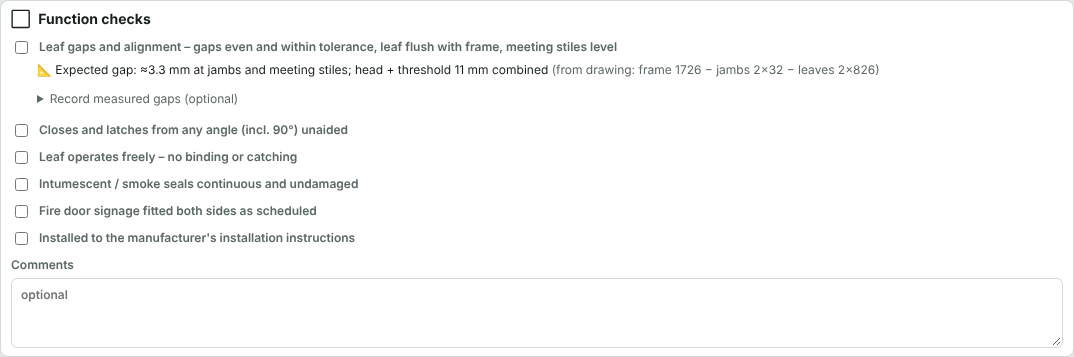
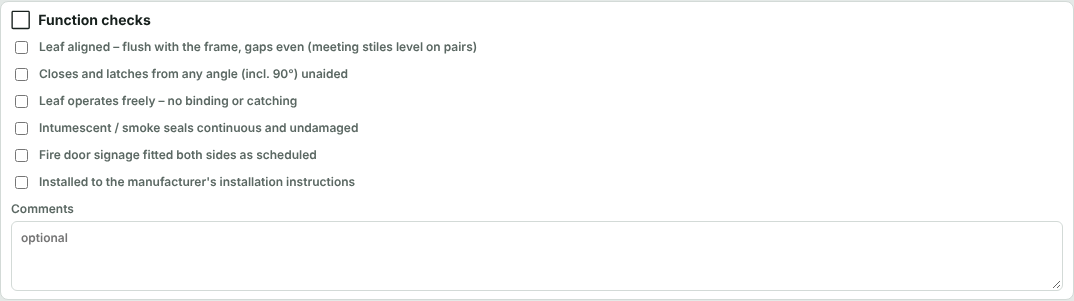
Measured leaf gaps (both leaves on pairs), alignment check, architraves/finished photos after photos; architrave N/A only for metal doors
Claude-Session: https://claude.ai/code/session_017beXtbuUdnLAwMxUsRkPYu

diff --git a/public/index.html b/public/index.html
@@ -804,7 +804,7 @@ function rpPanel(ref,d){if(!isTimberSet(d))return"";const sl=rpSlots(d);const st
 function fdRows(){const D=S.data.doors;return Object.keys(D).filter(r=>supOk(D[r])&&isFR(D[r])&&!D[r].unscheduled).sort((a,b)=>keyNK(a).localeCompare(keyNK(b))).map(r=>{const d=D[r],st=S.doors.get(r)||{},sp=d.sup||{};const s=stageOf(r);const ds=(d.doorsets||[])[0];
   const fs=compStat(st,"fseal");const docs=fireDocs(r);const rp=isTimberSet(d)?rpStat(r,d):null;const od=[...S.defects.values()].filter(x=>x.ref===r&&x.status!=="Closed").length;const it=instAt(r);
   const hw=[...(d.iron||[]),...(sp.hardware||[])].join(" | ");
-  const ce=(st.cert)||{},ins=(st.inst)||{},fp=(st.fsp)||{};const rs=fdRecStat(r,d),fr_=(st.fdr)||{};return {r,d,s,cells:[r,doorLoc(r),d.supplier||"",d.fire||"",sp.fire||"",ds?`${ds.no} rev ${ds.rev}`:"",ce.scheme||"",ce.no||"",sp.leaf||"",/S$/i.test(normFire(d.fire))?"Yes (smoke)":"",(sp.vision&&!/none/i.test(sp.vision))?sp.vision:(d.vision||""),/closer/i.test(hw)||sp.closer?"Yes":(d.closer||""),STAGES[s].k,it?new Date(it).toLocaleDateString("en-GB"):"",ins.company?`${ins.company} – ${ins.name}${ins.cert?" ("+ins.cert+")":""}`:installer(r)+" (not recorded)",fs?({cleared:"Done",later:"To complete",na:"N/A"}[fs.s]||fs.s):((st.fseal||{}).all?"Done":""),(fp.product||fp.gapW!=null&&fp.gapW!=="")?[fp.gapW!=null&&fp.gapW!==""?"gap "+fp.gapW+(fp.gapN!=null&&fp.gapN!==""?"–"+fp.gapN:"")+" mm":"",fp.product,fp.maker,fp.depth!=null&&fp.depth!==""?"depth "+fp.depth+" mm":"",fp.gap?"gap "+fp.gap:"",fp.backing?"backing "+fp.backing:"",fp.note].filter(Boolean).join(", "):"",docs.length?docs.map(x=>x.kind).join("; "):"",rp?`${rp.got}/${rp.req}`:"N/A",st.handover?"Handed over "+new Date(st.handover.at).toLocaleDateString("en-GB"):"",od||"",fr_.test||"",[fr_.gH,fr_.gJ,fr_.gL,fr_.gM,fr_.gT].some(x=>x!==""&&x!=null)?`H ${fr_.gH??"–"} / HJ ${fr_.gJ??"–"} / LJ ${fr_.gL??"–"}${fr_.gM!=null&&fr_.gM!==""?" / M "+fr_.gM:""} / T ${fr_.gT??"–"}`:"",[fr_.vId?"identity":"",fr_.vBuild?"build":"",fr_.vHw?"ironmongery":""].filter(Boolean).join(", "),FDCHK.every(([k])=>fr_["c_"+k])?"All passed":FDCHK.some(([k])=>fr_["c_"+k])?"Part":"",fr_.decl?"Yes":"",fr_.inspBy?`${fr_.inspBy}${fr_.inspDate?" "+new Date(fr_.inspDate).toLocaleDateString("en-GB"):""}`:"",`${rs.got}/${rs.n}`]}})}
+  const ce=(st.cert)||{},ins=(st.inst)||{},fp=(st.fsp)||{};const rs=fdRecStat(r,d),fr_=(st.fdr)||{};return {r,d,s,cells:[r,doorLoc(r),d.supplier||"",d.fire||"",sp.fire||"",ds?`${ds.no} rev ${ds.rev}`:"",ce.scheme||"",ce.no||"",sp.leaf||"",/S$/i.test(normFire(d.fire))?"Yes (smoke)":"",(sp.vision&&!/none/i.test(sp.vision))?sp.vision:(d.vision||""),/closer/i.test(hw)||sp.closer?"Yes":(d.closer||""),STAGES[s].k,it?new Date(it).toLocaleDateString("en-GB"):"",ins.company?`${ins.company} – ${ins.name}${ins.cert?" ("+ins.cert+")":""}`:installer(r)+" (not recorded)",fs?({cleared:"Done",later:"To complete",na:"N/A"}[fs.s]||fs.s):((st.fseal||{}).all?"Done":""),(fp.product||fp.gapW!=null&&fp.gapW!=="")?[fp.gapW!=null&&fp.gapW!==""?"gap "+fp.gapW+(fp.gapN!=null&&fp.gapN!==""?"–"+fp.gapN:"")+" mm":"",fp.product,fp.maker,fp.depth!=null&&fp.depth!==""?"depth "+fp.depth+" mm":"",fp.gap?"gap "+fp.gap:"",fp.backing?"backing "+fp.backing:"",fp.note].filter(Boolean).join(", "):"",docs.length?docs.map(x=>x.kind).join("; "):"",rp?`${rp.got}/${rp.req}`:"N/A",st.handover?"Handed over "+new Date(st.handover.at).toLocaleDateString("en-GB"):"",od||"",fr_.test||"",!gapFields(d).some(g=>g.f.some(([k])=>fr_[k]!==""&&fr_[k]!=null))?"":gapFields(d).map(g=>(g.t?g.t.replace(/ \(.*\)/,"")+": ":"")+g.f.map(([k,l])=>l.split(" ").map(w=>w[0]).join("")+" "+(fr_[k]??"–")).join(" / ")).join("; "),[fr_.vId?"identity":"",fr_.vBuild?"build":"",fr_.vHw?"ironmongery":""].filter(Boolean).join(", "),FDCHK.every(([k])=>fr_["c_"+k])?"All passed":FDCHK.some(([k])=>fr_["c_"+k])?"Part":"",fr_.decl?"Yes":"",fr_.inspBy?`${fr_.inspBy}${fr_.inspDate?" "+new Date(fr_.inspDate).toLocaleDateString("en-GB"):""}`:"",`${rs.got}/${rs.n}`]}})}
 const FD_HDR=["Door ref","Location","Supplier","Fire rating (schedule)","Fire rating (supplier design)","Doorset drawing","Certification scheme","Certificate no.","Leaf size","Smoke seals","Vision panel / glass","Self-closer","Install stage","Installed","Installer","Fire stopping to frame","Frame sealing product","Fire documents uploaded","Install record photos","Handover","Open defects","Test evidence","Gaps (mm)","Verified on site","Function checks","Installer declaration","AFRY inspection","Record complete"];
 function renderFDReg(){const rows=fdRows();const by=k=>rows.filter(x=>normFire(x.d.fire).startsWith(k)).length;
   const inst=rows.filter(x=>x.s>=2),noDocs=inst.filter(x=>!x.cells[17]),noSeal=inst.filter(x=>x.cells[15]!=="Done"&&x.cells[15]!=="N/A");
@@ -824,7 +824,7 @@ function fdDesign(r,d){const sp=d.sup||{};const ds=(d.doorsets||[])[0];const hw=
   return {id:[["Fire rating (schedule)",d.fire||"–"],["Fire rating (supplier design)",sp.fire||"–"],["Manufacturer",d.supplier||"–"],["Doorset drawing",ds?`${ds.no} rev ${ds.rev}`:"–"],["Doorset type",sp.spec||d.desc||"–"]],
     build:[["Leaf",sp.leaf||(sp.clearW?`clear opening ${sp.clearW}${sp.clearH?" × "+sp.clearH:""} mm`:"–")],["Frame",sp.frameW?`${sp.frameW} × ${sp.frameH} mm`:(sp.soW?`structural opening ${sp.soW} × ${sp.soH} mm`:"–")],["Glazing",sp.vision&&!/^none$/i.test(sp.vision)?sp.vision:(d.vision&&!/^no/i.test(d.vision)?d.vision:"None")],["Smoke seals",/S$/.test(fr)?"Required (S rating)":"Not required"],["Intumescent seals","Per doorset certification"]],
     hw}}
-const FDCHK=[["gaps","Leaf gaps and alignment – gaps even and within tolerance, leaf flush with frame, meeting stiles level"],["closes","Closes and latches from any angle (incl. 90°) unaided"],["nobind","Leaf operates freely – no binding or catching"],["seals","Intumescent / smoke seals continuous and undamaged"],["sign","Fire door signage fitted both sides as scheduled"],["instr","Installed to the manufacturer's installation instructions"]];
+const FDCHK=[["align","Leaf aligned – flush with the frame, gaps even"+" (meeting stiles level on pairs)"],["closes","Closes and latches from any angle (incl. 90°) unaided"],["nobind","Leaf operates freely – no binding or catching"],["seals","Intumescent / smoke seals continuous and undamaged"],["sign","Fire door signage fitted both sides as scheduled"],["instr","Installed to the manufacturer's installation instructions"]];
 function fdRecord(r,d){const st=S.doors.get(r)||{},f=st.fdr||{},i=st.inst||{},c=st.cert||{},p=st.fsp||{};const D=fdDesign(r,d);const ro=canWrite?"":"disabled";const RS=fdRecStat(r,d);
   const dl=(k)=>`<datalist id="dl-${k.replace(".","_")}">${fdLib(k).map(v=>`<option value="${esc(v)}">`).join("")}</datalist>`;
   const tx=(k,lbl,val,ph,list)=>`<label>${lbl}<input type="text" data-fd="${k}" value="${esc(val||"")}" placeholder="${esc(ph||"")}" ${list?`list="dl-${k.replace(".","_")}"`:""} ${ro}></label>${list?dl(k):""}`;
@@ -860,10 +860,10 @@ function recStat(ref,d){const st=S.doors.get(ref)||{},f=st.fdr||{},i=st.inst||{}
   add("check","check","Doorset checked against the design",f.vId);
   if(fr)add("check","cert","Certification scheme & number",c.scheme&&c.no);
   const is=ironStatus(ref,d,st);const ax=archIdx(d);if(is.total>ax.length)add("iron","iron","Ironmongery checked",!is.missing.filter(x=>x.i!==d.prepIdx&&!ax.includes(x.i)).length&&!is.noPhoto.filter(x=>!ax.includes(x.i)).length);
-  const nz=v=>v!==""&&v!=null;if(fr){add("fire","fsgap","Frame-to-wall gap recorded",nz(p.gapW)||p.gap);add("fire","fsp","Fire-stopping material & depth",p.product&&(nz(p.depth)||p.gap));add("func","func","Function checks",FDCHK.every(([k])=>f["c_"+k]))}
-  if(ax.length)add("arch","arch","Architraves fitted (or N/A)",f.archNA||ax.every(i=>(st.iron||{})[i]));
-  if(UI.sec==="doors"&&d.ctype!=="Roller shutter")add("arch","fin","Finished photos – push & pull side",FINPH.every(([k])=>rpHas(ref,k).length));
+  const nz=v=>v!==""&&v!=null;if(fr){add("fire","fsgap","Frame-to-wall gap recorded",nz(p.gapW)||p.gap);add("fire","fsp","Fire-stopping material & depth",p.product&&(nz(p.depth)||p.gap));add("gaps","gaps","Leaf-to-frame gaps measured",gapFields(d).every(g=>g.f.every(([k])=>f[k]!==""&&f[k]!=null)));add("func","func","Function checks",FDCHK.every(([k])=>f["c_"+k]))}
   const sl=recSlots(d).filter(x=>!x.opt);if(sl.length){const got=sl.filter(x=>rpHas(ref,x.k).length).length;add("photos","photos",`Photos (${got}/${sl.length})`,got===sl.length)}
+  if(ax.length)add("arch","arch","Architraves fitted",ax.every(i=>(st.iron||{})[i]));
+  if(UI.sec==="doors"&&d.ctype!=="Roller shutter")add("arch","fin","Finished photos – push & pull side",FINPH.every(([k])=>rpHas(ref,k).length));
   if(d.conn)add("elec","elec","Access control interfaces",compStat(st,"elec"));
   if(hasCyl(d))add("keys","keys","Keys handed over",keyTot(ref)||f.noKeys);
   const got=it.filter(x=>x.ok).length;return {items:it,got,n:it.length,missing:it.filter(x=>!x.ok)}}
@@ -872,6 +872,8 @@ const FSMAT=["Intumescent acrylic sealant","Fire-rated silicone sealant","Minera
 const FSBACK=["Mineral wool","PE backing rod","Fire-rated backing rod","None – full-depth sealant"];
 function fsSel(k,lbl,val,base,ro){const opts=[...new Set([...base,...fdLib(k)])];const other=val&&!opts.includes(val);
   return `<label>${lbl}<select data-fsel="${k}" ${ro}><option value="">Choose…</option>${opts.map(o=>`<option ${o===val?"selected":""}>${esc(o)}</option>`).join("")}<option value="__o" ${other?"selected":""}>Other…</option></select><input type="text" data-fd="${k}" list="dl-${k.replace(".","_")}" value="${esc(val||"")}" placeholder="Type the material" ${other?"":"hidden"} ${ro} style="margin-top:4px"></label>`}
+const isDbl=d=>/double/i.test(d.desc||"")||/2:2/.test((d.prod||{}).handing||"")||/double/i.test((d.sup||{}).type||"");
+function gapFields(d){const L=isDbl(d)?[["","Leaf 1 (active)"],["2","Leaf 2 (inactive)"]]:[["",""]];return L.map(([sfx,t])=>({t,f:[["gH"+sfx,"Head"],["gJ"+sfx,"Hinge jamb"],["gL"+sfx,isDbl(d)?"Meeting stile":"Lock jamb"],["gT"+sfx,"Threshold"]]}))}
 function gapRef(d){const sp=d.sup||{},pr=d.prod,o={leaf:"",wall:""};const num=v=>v==null||v===""?NaN:+v;
   if(pr&&sp.frameW&&pr.size&&pr.frame){const t=+((pr.frame.match(/x\s*(\d+)\s*mm/)||[])[1]);const m=(pr.size.match(/(\d+)\s*mm/g)||[]).map(x=>parseInt(x));const n=/double/i.test(d.desc||"")||/2:2/.test(pr.handing||"")?2:1;
     if(t&&m.length>=2){const g=(num(sp.frameW)-2*t-n*m[0])/(n+1),hh=num(sp.frameH)-t-m[1];if(g>=1&&g<=6)o.leaf=`≈${Math.round(g*10)/10} mm at jambs${n>1?" and meeting stiles":""}; head + threshold ${hh} mm combined <span class="muted">(from drawing: frame ${sp.frameW} − jambs 2×${t} − ${n>1?"leaves 2×":"leaf "}${m[0]})</span>`}}
@@ -906,9 +908,10 @@ function installRecord(ref,d,st){if(UI.sec!=="doors")return"";const f=st.fdr||{}
      <div class="row">${tx("fsp.maker","Manufacturer / product name (optional)",p.maker,"e.g. as on the cartridge",1)}${tx("fsp.sides","Sealed",p.sides,"both sides / one side")}</div>
      <label>Comments<textarea data-fd="fsp.note" rows="2" style="box-sizing:border-box;width:100%" placeholder="e.g. head gap over 20 mm – packed with mineral wool first" ${ro}>${esc(p.note||"")}</textarea></label>
      <span class="muted" style="font-size:12px">Check the gap and depth are within the fire-stopping product's tested limits for this doorset.</span>`):""}
-   ${fr?sec("func","Function checks",`${FDCHK.map(([k,l])=>ck("c_"+k,l,f["c_"+k])+(k==="gaps"?`<div style="font-size:12px;margin:-4px 0 4px 26px">📐 Expected gap: ${gapRef(d).leaf}</div><details style="margin:0 0 6px 26px" ${[f.gH,f.gJ,f.gL,f.gM,f.gT].some(v=>v!==""&&v!=null)?"open":""}><summary style="cursor:pointer;font-size:12px" class="muted">Record measured gaps (optional)</summary><div class="row" style="flex-wrap:wrap;margin-top:6px">${nm("fdr.gH","Head",f.gH)}${nm("fdr.gJ","Hinge jamb",f.gJ)}${nm("fdr.gL","Lock jamb",f.gL)}${/double/i.test(d.desc||"")?nm("fdr.gM","Meeting stiles",f.gM):""}${nm("fdr.gT","Threshold",f.gT)}</div></details>`:"")).join("")}<label>Comments<textarea data-fd="fdr.funcNote" rows="2" style="box-sizing:border-box;width:100%" placeholder="optional" ${ro}>${esc(f.funcNote||"")}</textarea></label>`):""}
-   ${sec("arch",archIdx(d).length?"Architraves & finished photos":"Architraves (N/A) & finished photos",(archIdx(d).length?(f.archNA?"":ironList(ref,d,st,archIdx(d),"Architraves"))+ck("archNA","Not applicable – no architraves on this doorset",f.archNA)+(fr&&!f.archNA?'<span class="muted" style="font-size:12px">Fit after the fire stopping has been completed and photographed.</span>':""):'<div style="font-size:13px"><b>Architraves:</b> <span class="pill">N/A</span> <span class="muted">none on the supplier design</span></div>')+`<b style="font-size:13px">${archIdx(d).length&&!f.archNA?"After facings – photos":"Photos"} of the finished doorset</b><ul style="list-style:none;margin:0;padding:0">${FINPH.map(([k,l])=>{const ph=rpHas(ref,k);return `<li style="display:flex;gap:8px;align-items:center;padding:6px 0;border-bottom:1px solid var(--line)"><span style="width:20px">${ph.length?"✅":"⬜"}</span><span style="flex:1;min-width:0;font-size:13px"><b>${esc(l)}</b><br><span class="muted" style="font-size:12px">Whole doorset closed${archIdx(d).length&&!f.archNA?", architraves on":""}, ironmongery${k==="leafPush"?" and signage":""} visible</span>${ph.length?`<span style="display:flex;gap:4px;margin-top:4px">${ph.slice(0,4).map(q=>`<button class="ph" data-photo="${q.id}" style="width:44px;height:44px;padding:0"><img alt="" src="${esc(photoSrc(q))}" style="width:44px;height:44px;object-fit:cover"></button>`).join("")}</span>`:""}</span>${canWrite?`<button class="btn sm ${ph.length?"":"primary"}" data-rp="${k}" data-label="${esc(l)}">${ph.length?"Add":"📷"}</button>`:""}</li>`}).join("")}</ul>`)}
+   ${fr?sec("gaps","Leaf-to-frame gaps",`<div style="font-size:12px">📐 Expected: ${gapRef(d).leaf}</div>${gapFields(d).map(g=>`${g.t?`<b style="font-size:13px">${g.t}</b>`:""}<div class="row" style="flex-wrap:wrap">${g.f.map(([k,l])=>nm("fdr."+k,l,f[k])).join("")}</div>`).join("")}`):""}
+   ${fr?sec("func","Function checks",`${FDCHK.map(([k,l])=>ck("c_"+k,l,f["c_"+k])).join("")}<label>Comments<textarea data-fd="fdr.funcNote" rows="2" style="box-sizing:border-box;width:100%" placeholder="optional" ${ro}>${esc(f.funcNote||"")}</textarea></label>`):""}
    ${sec("photos","Photos",photoBody)}
+   ${sec("arch",archIdx(d).length?"Architraves & finished photos":"Architraves (N/A) & finished photos",(archIdx(d).length?ironList(ref,d,st,archIdx(d),"Architraves")+(fr?'<span class="muted" style="font-size:12px">Fit after the fire stopping has been completed and photographed.</span>':""):'<div style="font-size:13px"><b>Architraves:</b> <span class="pill">N/A</span> <span class="muted">metal doorset – no architraves</span></div>')+`<b style="font-size:13px">${archIdx(d).length?"After facings – photos":"Photos"} of the finished doorset</b><ul style="list-style:none;margin:0;padding:0">${FINPH.map(([k,l])=>{const ph=rpHas(ref,k);return `<li style="display:flex;gap:8px;align-items:center;padding:6px 0;border-bottom:1px solid var(--line)"><span style="width:20px">${ph.length?"✅":"⬜"}</span><span style="flex:1;min-width:0;font-size:13px"><b>${esc(l)}</b><br><span class="muted" style="font-size:12px">Whole doorset closed${archIdx(d).length?", architraves on":""}, ironmongery${k==="leafPush"?" and signage":""} visible</span>${ph.length?`<span style="display:flex;gap:4px;margin-top:4px">${ph.slice(0,4).map(q=>`<button class="ph" data-photo="${q.id}" style="width:44px;height:44px;padding:0"><img alt="" src="${esc(photoSrc(q))}" style="width:44px;height:44px;object-fit:cover"></button>`).join("")}</span>`:""}</span>${canWrite?`<button class="btn sm ${ph.length?"":"primary"}" data-rp="${k}" data-label="${esc(l)}">${ph.length?"Add":"📷"}</button>`:""}</li>`}).join("")}</ul>`)}
    ${d.conn?sec("elec","Access control interfaces",`<div class="crow" style="display:flex;gap:8px;align-items:center;flex-wrap:wrap"><span style="flex:1;font-size:13px">${esc(d.conn==="EL560"?"EL560 lock – cable loop, joint box / access control interface in place":d.conn==="Controls"?"Controls interface in place":"Electrical interface ("+d.conn+") in place")}</span>${segBtns("data-cs","elec",(compStat(st,"elec")||{}).s,!canWrite)}</div><span class="muted" style="font-size:12px">“To be completed later” keeps it listed at handover.</span>`):""}
    ${sec("keys","Keys",keysBody)}
    ${fr?sec("docs","Fire documents",docBody,1):""}
